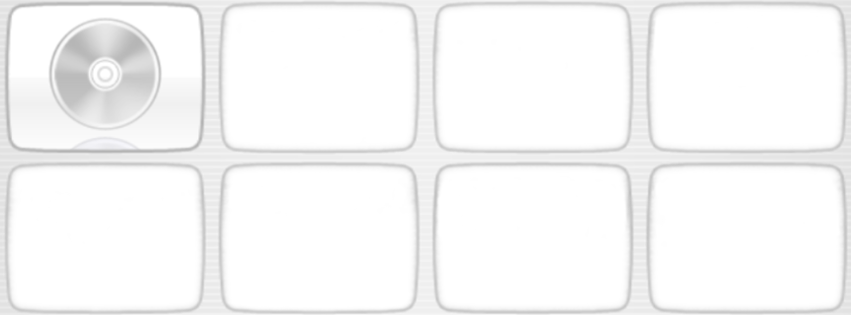
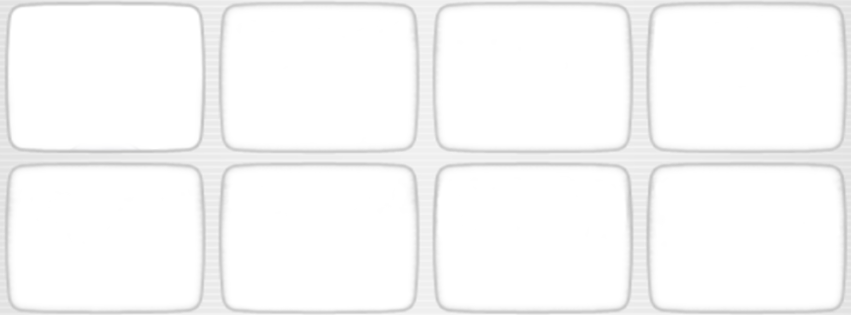
now allows to fill in top left slot

Changed region(s): [[0.0306, 0.0571, 0.2139, 0.4286]]

diff --git a/wiifbtimeline.py b/wiifbtimeline.py
@@ -40,7 +40,10 @@ def create_cover(thumbnail_filenames):
 
 	i = 0
 	for y in range(grid_height):
-		for x in range(1, grid_width):
+		for x in range(grid_width):
+			# skip bottom left slot
+			if y == 1 and x == 0:
+				continue
 			if i < len(thumbnail_filenames):
 				currTile = Image.new('RGB', (tile_width, tile_height))
 				thumb = Image.open(thumbnail_filenames[i])
